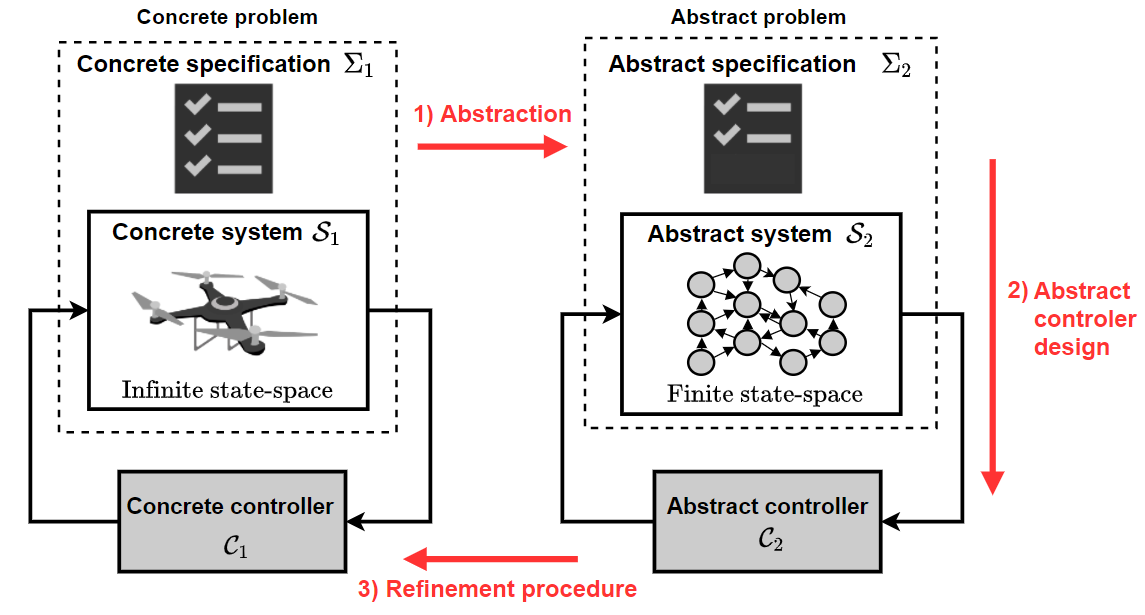
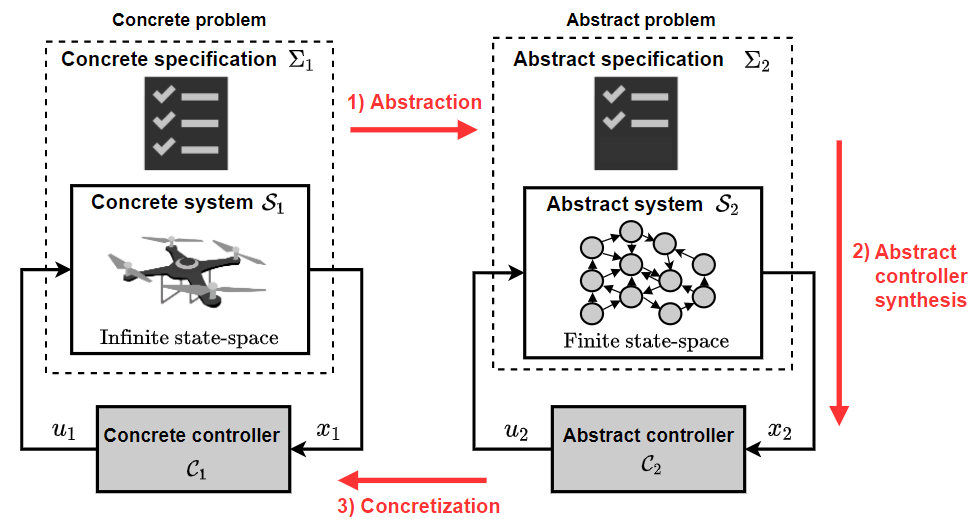
improve docs

Changed region(s): [[0.0, 0.0, 1.0, 0.9827], [0.0307, 0.1843, 0.0613, 0.215]]

diff --git a/docs/src/manual/manual.md b/docs/src/manual/manual.md
@@ -1,11 +1,11 @@
-# Standard form problem
+# Overview
 
 Dionysos aims to design a controller for a system $\mathcal{S}$ so that the closed-loop system satisfies the specification $\Sigma$ where:
 * the system $\mathcal{S}$ is specified by [`MathematicalSystems`](https://juliareach.github.io/MathematicalSystems.jl/latest/lib/types/#MathematicalSystems.AbstractSystem) or [`HybridSystems`](https://blegat.github.io/HybridSystems.jl/stable/lib/types/#HybridSystems.AbstractHybridSystem) objects;
 * the specification $\Sigma$ is specified by [`ProblemType`](https://dionysos-dev.github.io/Dionysos.jl/dev/reference/Problem/#Dionysos.Problem.ProblemType) objects;
 * the solver $\mathcal{O}$ implementents the abstract type [`AbstractOptimizer`](https://jump.dev/MathOptInterface.jl/stable/reference/models/#MathOptInterface.AbstractOptimizer) of [`MathOptInterface`](https://github.com/jump-dev/MathOptInterface.jl).
 
-So a control problem $(\mathcal{S},\Sigma)$ can be addressed by a solver $\mathcal{O}$ via the [`JuMP`](https://github.com/jump-dev/JuMP.jl) interface, with Dionysos inheriting JuMP's powerful and practical optimization framework.
+So a control problem $(\mathcal{S},\Sigma)$ can be solved by $\mathcal{O}$ via the [`JuMP`](https://github.com/jump-dev/JuMP.jl) interface, with Dionysos inheriting JuMP's powerful and practical optimization framework.
 
 # Overview of the code structure
 Description of the core of the Dionysos.jl package, the [`src`](https://github.com/dionysos-dev/Dionysos.jl/tree/master/src) folder:
@@ -14,8 +14,8 @@ Description of the core of the Dionysos.jl package, the [`src`](https://github.c
 | :--------------- | :---------- |
 | [`utils`](https://github.com/dionysos-dev/Dionysos.jl/tree/master/src/utils) | Contains useful functions, data structures, classic search algorithms, file management, ... |
 | [`domain`](https://github.com/dionysos-dev/Dionysos.jl/tree/master/src/domain) | Contains structures defining the domain of a system |
-| [`system`](https://github.com/dionysos-dev/Dionysos.jl/tree/master/src/system) | Contains specific systems and controllers |
-| [`problem`](https://github.com/dionysos-dev/Dionysos.jl/tree/master/src/problem) | Contains specifications |
+| [`system`](https://github.com/dionysos-dev/Dionysos.jl/tree/master/src/system) | Contains a description of specific systems |
+| [`problem`](https://github.com/dionysos-dev/Dionysos.jl/tree/master/src/problem) | Contains control problems that can be solved by Dionysos solvers |
 | [`symbolic`](https://github.com/dionysos-dev/Dionysos.jl/tree/master/src/symbolic) | Contains the data structures needed to encode the abstractions |
 | [`optim`](https://github.com/dionysos-dev/Dionysos.jl/tree/master/src/optim) | Contains the solvers |
 
@@ -28,9 +28,9 @@ where $\mathcal{X}$ is the state constraint, $\mathcal{U}$ is the input constrai
 * [`HybridSystems`](https://blegat.github.io/HybridSystems.jl/stable/lib/types/#HybridSystems.AbstractHybridSystem), which extends the class of systems of [`MathematicalSystems`](https://juliareach.github.io/MathematicalSystems.jl/latest/lib/types/#MathematicalSystems.AbstractSystem) to hybrid systems.
 
 
-# Specifications
+# Problems
 
-The specification types implemented in Dionysos.jl are:
+The problem types supported in Dionysos.jl are:
 
 | Type         | Description |
 | :--------------- | :---------- |
@@ -41,14 +41,14 @@ Extensions for linear temporal logic (LTL) specifications are currently being im
 
 # Solvers
 
-The following tables summarize the different solver types in abbreviated form. 
+The following tables summarize the different solvers. 
 
 
 **Abstraction-based solver types implemented in Dionysos.jl:**
 
 | Type          | Full vs partial discretization | Partition vs Cover | Shape | Local controller | Abstraction | System | Reference | 
 | :--------------- | :---------- | :---------- | :---------- | :---------- | :---------- | :---------- | :---------- |
-| [`SCOTS`](https://dionysos-dev.github.io/Dionysos.jl/dev/reference/Optim/#Dionysos.Optim.Abstraction.SCOTSAbstraction.Optimizer) | Full | Partition | Hyperrectangle | Piece-wise constant | Non-determinisitic | Continuous-time | [`SCOTS: A Tool for the Synthesis of Symbolic Controllers`](https://dl.acm.org/doi/abs/10.1145/2883817.2883834) |
+| [`Naive abstraction`](https://dionysos-dev.github.io/Dionysos.jl/dev/reference/Optim/#Dionysos.Optim.Abstraction.NaiveAbstraction.Optimizer) | Full | Partition | Hyperrectangle | Piece-wise constant | Non-determinisitic | Continuous-time | [`SCOTS: A Tool for the Synthesis of Symbolic Controllers`](https://dl.acm.org/doi/abs/10.1145/2883817.2883834) |
 | [`Lazy abstraction`](https://dionysos-dev.github.io/Dionysos.jl/dev/reference/Optim/#Dionysos.Optim.Abstraction.LazyAbstraction.Optimizer) | Partial | Partition | Hyperrectangle | Piece-wise constant | Non-determinisitic | Continuous-time | [`Alternating simulation on hierarchical abstractions`](https://ieeexplore.ieee.org/abstract/document/9683448/?casa_token=AXyECYU9FdwAAAAA:ERfvlbkORIbfGLbDd42d2K5K9SLVOjl-8kRs9pfp7lMa4QZEv0W4VgzlP8FshBlxXQF4ZQrDuzk) |
 | [`Hierarchical abstraction`](https://dionysos-dev.github.io/Dionysos.jl/dev/reference/Optim/#Dionysos.Optim.Abstraction.HierarchicalAbstraction.Optimizer) | Partial | Partition | Hyperrectangle | Piece-wise constant | Non-determinisitic | Continuous-time | [`Alternating simulation on hierarchical abstractions`](https://ieeexplore.ieee.org/abstract/document/9683448/?casa_token=AXyECYU9FdwAAAAA:ERfvlbkORIbfGLbDd42d2K5K9SLVOjl-8kRs9pfp7lMa4QZEv0W4VgzlP8FshBlxXQF4ZQrDuzk) |
 | [`Ellipsoid abstraction`](https://dionysos-dev.github.io/Dionysos.jl/dev/reference/Optim/#Dionysos.Optim.Abstraction.EllipsoidsAbstraction.Optimizer) | Full | Cover | Ellipsoid | Piece-wise affine | Determinisitic | Discrete-time affine | [`State-feedback Abstractions for Optimal Control of Piecewise-affine Systems`](https://arxiv.org/abs/2204.00315) |
@@ -64,8 +64,8 @@ The following tables summarize the different solver types in abbreviated form.
 
 **Solver interface**
 
-Each solver is defined by a module which must define the structure [`AbstractOptimizer`](https://jump.dev/MathOptInterface.jl/stable/reference/models/#MathOptInterface.AbstractOptimizer) and implement the [`Optimize!`](https://jump.dev/MathOptInterface.jl/stable/reference/models/#MathOptInterface.optimize!) function.
-For example, for the SCOTS solver, this structure and function are defined as follows
+Each solver is defined by a module which must implement the abstract type [`AbstractOptimizer`](https://jump.dev/MathOptInterface.jl/stable/reference/models/#MathOptInterface.AbstractOptimizer) and the [`Optimize!`](https://jump.dev/MathOptInterface.jl/stable/reference/models/#MathOptInterface.optimize!) function.
+For example, for the NaiveAbstraction solver, this structure and function are defined as follows
 
 ```julia
 using JuMP
@@ -110,9 +110,9 @@ end
 
 # Running an example
 In this section, we outline how to define and solve a control problem with Dionsysos.
-For an executable version of this example, see [`Example: Path planning problem`](https://dionysos-dev.github.io/Dionysos.jl/dev/generated/Path%20planning/#Example:-Path-planning-problem) in the documentation.
+For an executable version of this example, see [`Solvers: Path planning problem`](https://dionysos-dev.github.io/Dionysos.jl/dev/generated/Path%20planning/#Example:-Path-planning-problem) in the documentation.
 
-First you need to define a control problem, i.e., the system and the specification of the desired closed loop behaviour.
+Define a control problem, i.e., the system and the specification of the desired closed loop behaviour.
 To do this, you can define new ones yourself or directly load an existing benchmark, for example
 
 ```julia
@@ -123,7 +123,7 @@ concrete_system = concrete_problem.system;
 Choose the solver you wish to use
 ```julia
 using JuMP
-optimizer = MOI.instantiate(AB.SCOTSAbstraction.Optimizer)
+optimizer = MOI.instantiate(AB.NaiveAbstraction.Optimizer)
 ```
 
 Define the solver's meta-parameters
@@ -166,7 +166,7 @@ plot!(concrete_system.X; color = :yellow, opacity = 0.5);
 plot!(abstract_system.Xdom; color = :blue, opacity = 0.5);
 plot!(concrete_problem.initial_set; color = :green, opacity = 0.2);
 plot!(concrete_problem.target_set; dims = [1, 2], color = :red, opacity = 0.2);
-plot!(UT.DrawTrajectory(x_traj); ms = 0.5)
+plot!(control_trajectory; ms = 0.5)
 ```
 
 

diff --git a/docs/src/manual/abstraction-based-control.md b/docs/src/manual/abstraction-based-control.md
@@ -1,18 +1,16 @@
 # Abstraction-based control
 
-Given a mathematical description of the system dynamics and the specifications describing the desired closed-loop behavior of the system, 
-**abstraction-based control** techniques involve synthesizing a **correct-by-construction** controller through a **systematic** three-step procedure. 
-First, both the original system and the specifications are transposed into an abstract domain, resulting in an abstract system and corresponding abstract specifications. 
-This step generally involves a complete discretization of the state and input spaces, typically with uniform hyperrectangles.
-Next, an abstract controller is synthesized to solve this abstract control problem. Finally, the third step, referred to as the **refinement procedure**, involves deducing a controller for the original control problem from the abstract controller. The value of this approach lies in the substitution of the original system (often an infinite system) with a finite system, which enables it to leverage powerful control tools in the domain of symbolic control. This three steps procedure is illustrated on the following figure.
+Given a mathematical description of the system dynamics and the specifications describing the desired closed-loop behavior of the system, **abstraction-based control** techniques involve synthesizing a **correct-by-construction** controller through a **systematic** three-step procedure.
+First, both the original system and the specifications are transposed into an abstract domain, resulting in an abstract system and corresponding abstract specifications.
+We refer to the original system as the concrete system as opposed to the abstract system.
+Next, an abstract controller is synthesized to solve this abstract control problem. Finally, in the third step, called **concretization** as opposed to **abstraction**, a controller for the original control problem is derived from the abstract controller.
 
-<figure>
-    <center><img
-    src="https://github.com/dionysos-dev/Dionysos.jl/blob/master/docs/assets/abstraction.png?raw=true"
-    alt="Abstraction-based control."></center>
-    <center><figcaption>Abstraction-based control</figcaption></center>
-</figure>
+In practice, the abstract domain is constructed by discretizing the concrete state space of the concrete system into subsets (called **cells**).
+The value of this approach lies in the substitution of the concrete system (often a system with an infinite number of states) with a finite state system, which makes it possible to leverage powerful control tools from the graph-theoretic field, such as Dijkstra or the A-star algorithm.
+This three steps procedure is illustrated on the following figure.
+
+![Abstraction-based control.](https://github.com/dionysos-dev/Dionysos.jl/blob/master/docs/assets/abstraction.png?raw=true)
 
 Although this approach offers a safety-critical framework, it suffers from the curse of dimensionality due to the exponential growth of the number of states with respect to the dimension.
 In order to render these techniques practical, it is necessary to construct **smart abstractions**, i.e., they differ from classical techniques in that the partitioning is designed smartly, using optimization-based design techniques, and computed iteratively, unlike the classical approach which uses an a priori defined approach, sub-optimal and subject to the curse of dimensionality.
-To this end, we introduce solvers called **lazy solvers** (i.e. postponing heavier numerical operations) that co-design the abstraction and the controller to reduce the computed part of the abstraction.
+To this end, we propose solvers called **lazy solvers** (i.e. postponing heavier numerical operations) that co-design the abstraction and the controller to reduce the computed part of the abstraction.

diff --git a/docs/src/index.md b/docs/src/index.md
@@ -24,8 +24,9 @@ Rather than relying on closed-form analysis of a model of the dynamical system, 
 
 The documentation is organised as follows.
 * The **Manual** section contains all the useful information to use Dionysos as a user.
+* The **Solvers** section contains a few examples of solving problems with Dionysos. Start with [Getting started](https://dionysos-dev.github.io/Dionysos.jl/dev/generated/Getting%20Started/) if you want to get familiar with Dionysos.
+* The **Utils** section contains some examples of basic Dionysos functions.
 * The **API Reference** sections contains all the functions that we currently use in Dionysos. 
-* The **Examples** section contains a few examples of solving problems with Dionysos. Start with [Getting started](https://dionysos-dev.github.io/Dionysos.jl/dev/generated/Getting%20Started/) if you want to get familiar with Dionysos.
 * The **Developer Docs** section is dedicated to the contributors to Dionysos developement. 
 
  

diff --git a/docs/src/reference/Optim.md b/docs/src/reference/Optim.md
@@ -8,7 +8,7 @@ Dionysos.Optim.Abstraction.LazyAbstraction.Optimizer
 Dionysos.Optim.Abstraction.EllipsoidsAbstraction.Optimizer
 Dionysos.Optim.Abstraction.HierarchicalAbstraction.Optimizer
 Dionysos.Optim.Abstraction.LazyEllipsoidsAbstraction.Optimizer
-Dionysos.Optim.Abstraction.SCOTSAbstraction.Optimizer
+Dionysos.Optim.Abstraction.NaiveAbstraction.Optimizer
 ```
 
 ## Other solvers
